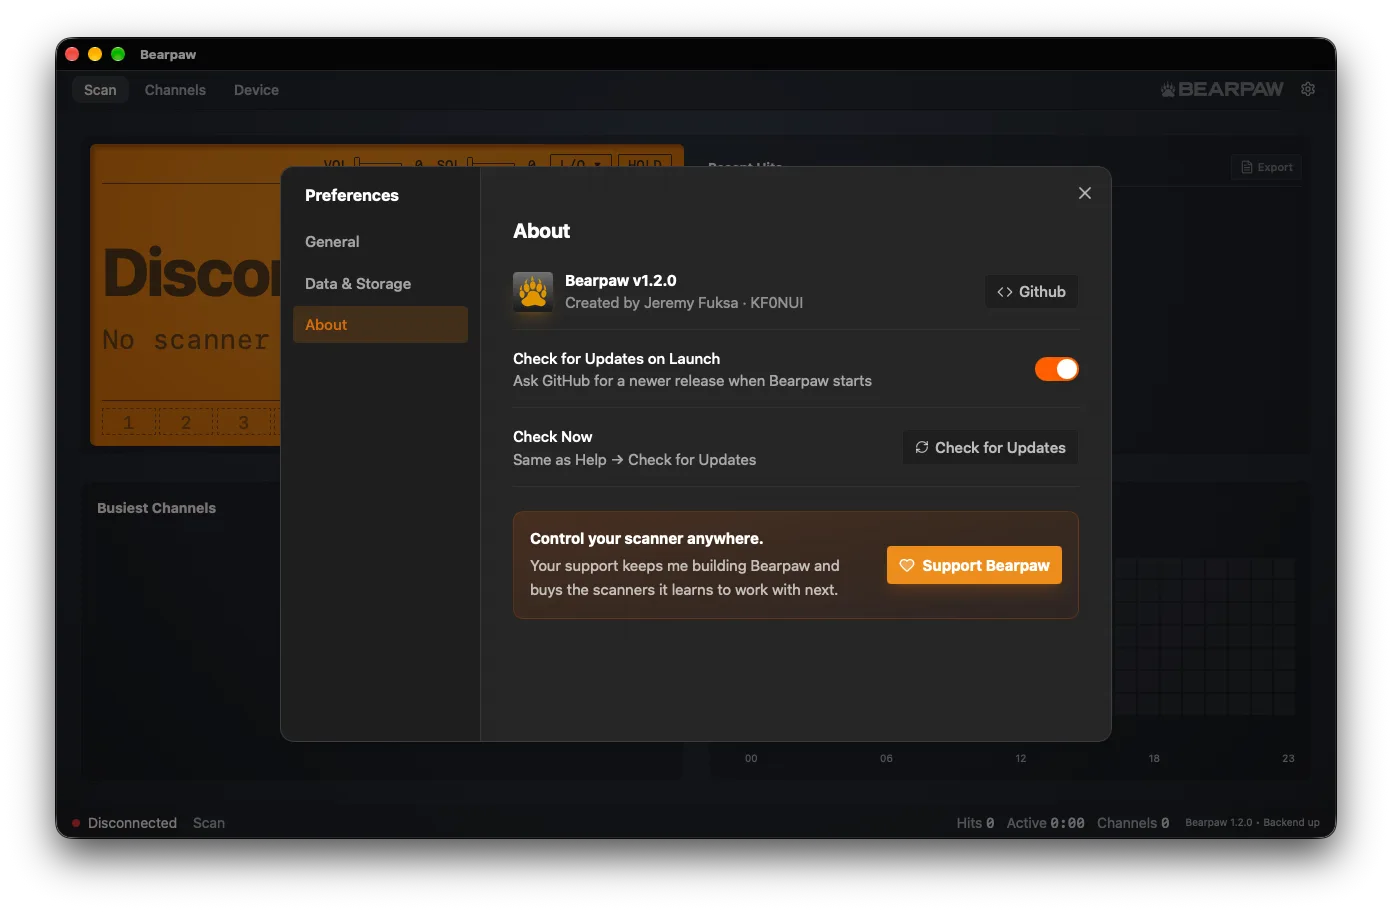
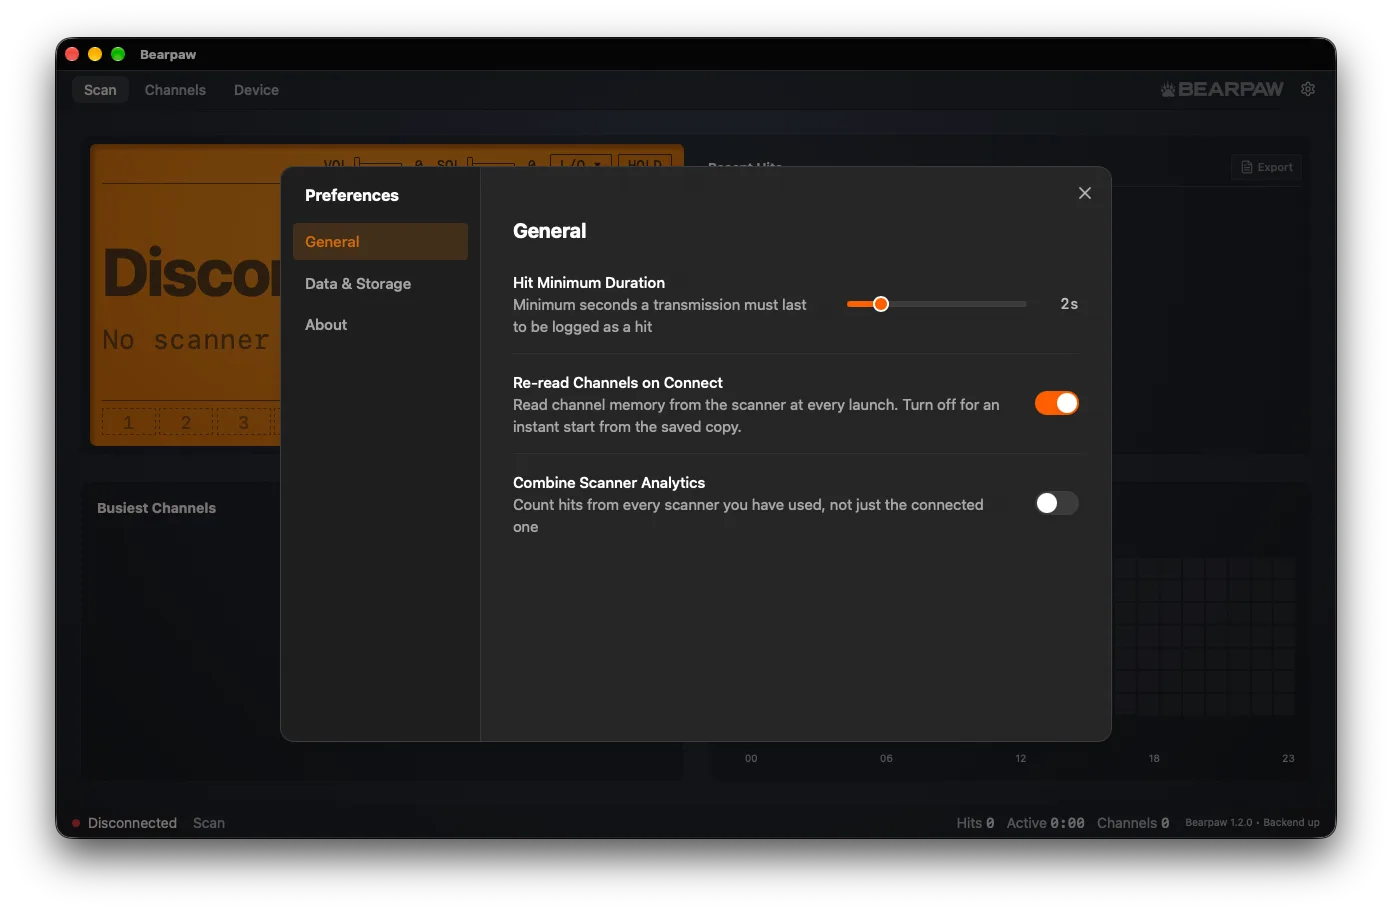
docs(site): show the General section in the Preferences screenshot
Refs #926

diff --git a/site/docs/preferences.html b/site/docs/preferences.html
@@ -77,7 +77,7 @@
         <figure class="docs-figure">
           <img
             src="assets/preferences.webp"
-            alt="The Preferences dialog over the Scan tab: a section list on the left with General, Data & Storage and About, and the About section open on the right, showing the app version with a GitHub link, a Check for Updates on Launch toggle, a Check for Updates button, and a Support Bearpaw card."
+            alt="The Preferences dialog over the Scan tab: a section list on the left with General, Data & Storage and About, and the General section open on the right, holding a Hit Minimum Duration slider set to 2 seconds, a Re-read Channels on Connect toggle that is on, and a Combine Scanner Analytics toggle that is off."
           />
           <figcaption>Preferences — the app's own settings.</figcaption>
         </figure>
